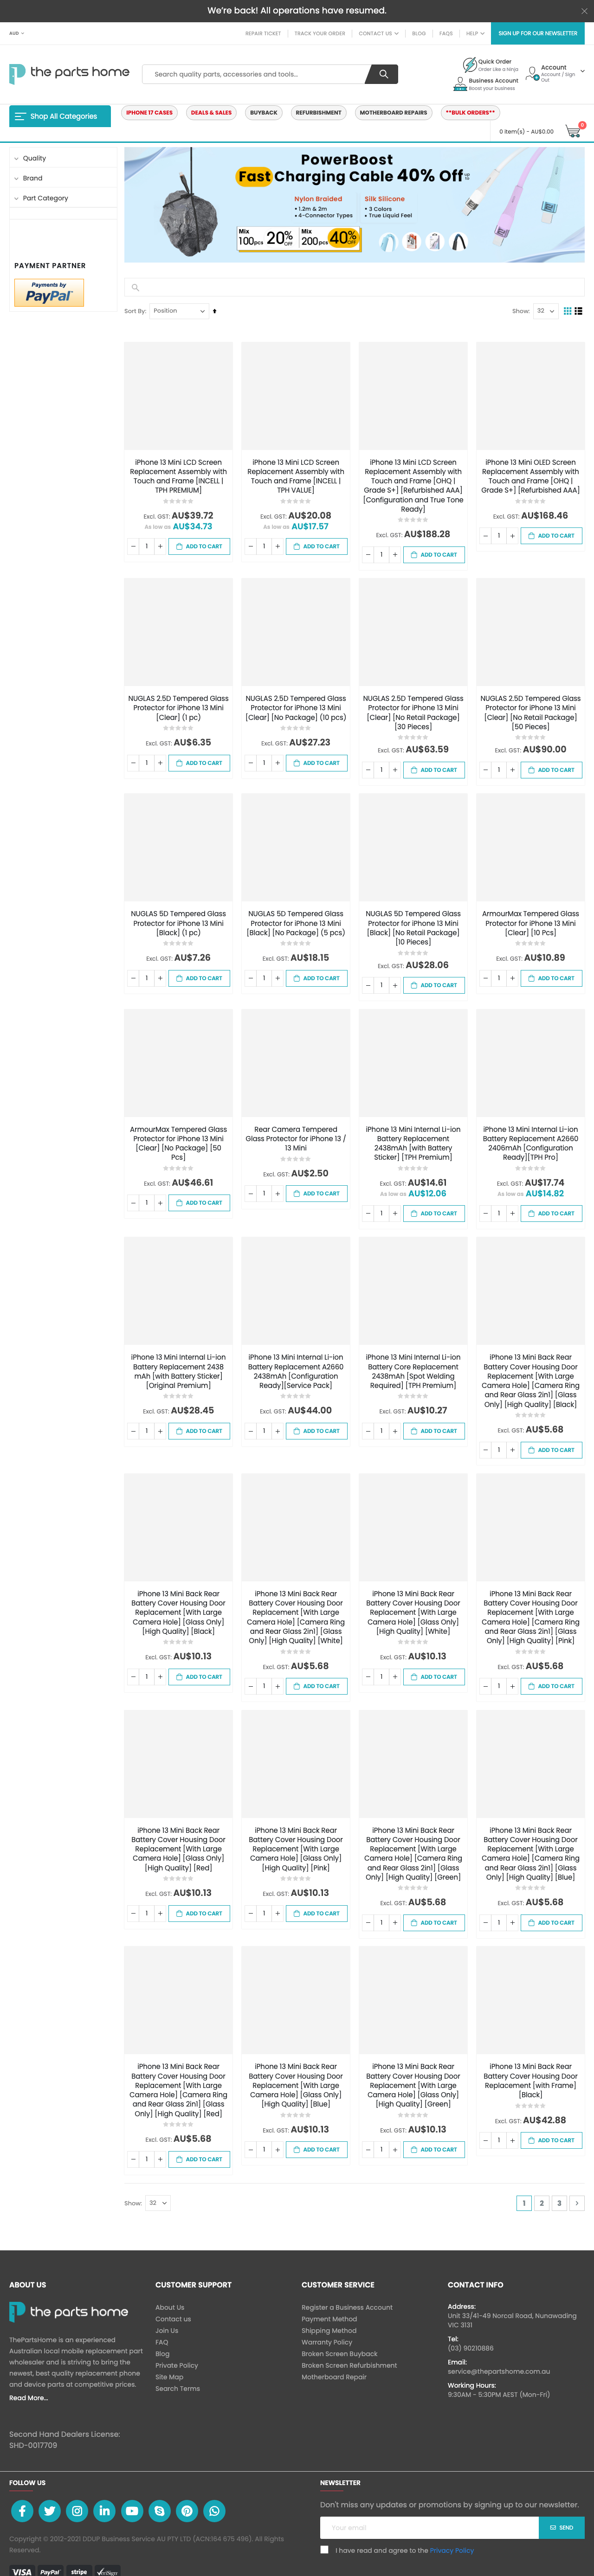
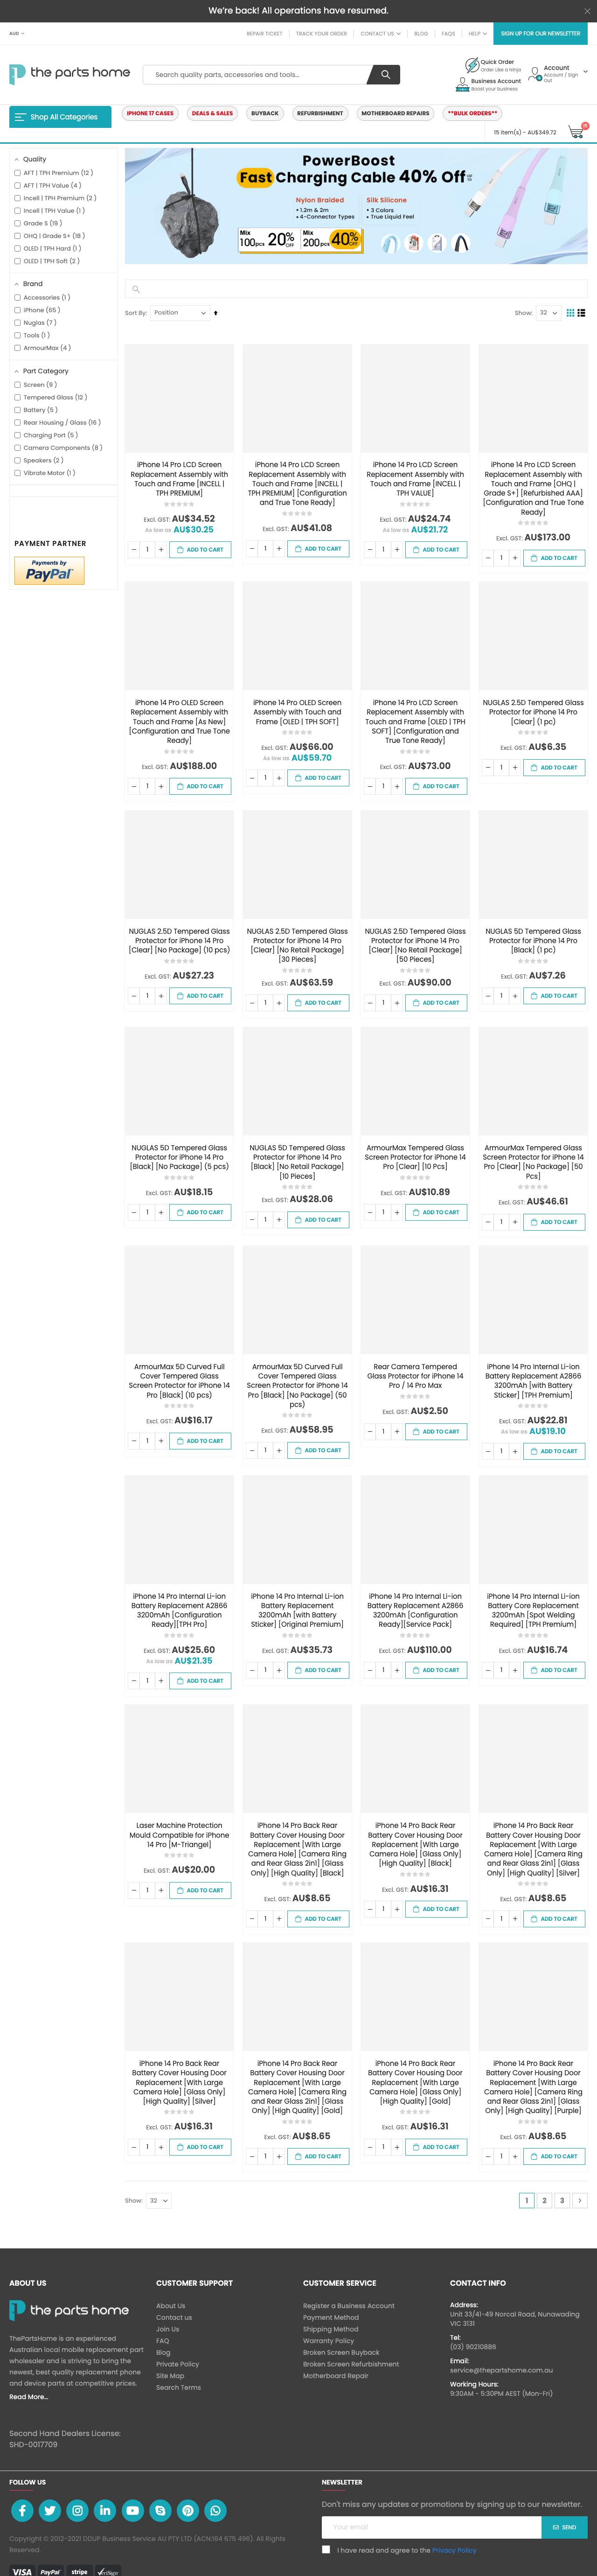
fix

diff --git a/scraper/main.py b/scraper/main.py
@@ -9,7 +9,7 @@ import warnings
 import logging
 from datetime import datetime
 from dotenv import load_dotenv
-from scrapling.engines.toolbelt.custom import Response
+from bs4 import BeautifulSoup
 from playwright.sync_api import sync_playwright
 from supabase import create_client, Client
 
@@ -125,8 +125,8 @@ def scrape_tph_category(url: str, cookies=None):
                     except Exception as ae:
                         logging.warning(f"Auth check timed out or failed: {str(ae)}. Continuing anyway...")
 
-                logging.info(f"Waiting for .product-item on page {page_num}...")
-                page.wait_for_selector(".product-item", timeout=15000)
+                logging.info(f"Waiting for .product-item on page {page_num} (state=attached)...")
+                page.wait_for_selector(".product-item", state="attached", timeout=15000)
                 
                 logging.info("Scrolling to bottom to trigger lazy loading...")
                 page.evaluate("window.scrollTo(0, document.body.scrollHeight)")
@@ -135,25 +135,32 @@ def scrape_tph_category(url: str, cookies=None):
                 logging.info("Capturing page content...")
             except Exception as e:
                 logging.error(f"Timeout or Error during page preparation (page {page_num}): {str(e)}")
-                # 3. DOM Dump for Zero Items
+                # DOM Dump for debugging
                 if page_num == 1:
-                    html_path = os.path.join(debug_dir, "debug_html.txt")
-                    with open(html_path, "w", encoding="utf-8") as f:
-                        f.write(page.content())
-                    logging.info(f"DOM dump saved to {html_path}")
+                    try:
+                        html_path = os.path.join(debug_dir, "debug_html.txt")
+                        with open(html_path, "w", encoding="utf-8") as f:
+                            f.write(page.content())
+                        logging.info(f"DOM dump saved to {html_path}")
+                    except: pass
                 break
                 
             content = page.content()
-            logging.info("Content captured. Parsing with Scrapling...")
-            response = Response(url=paginated_url, text=content, body=content.encode('utf-8'), status=200)
+            logging.info(f"Content captured ({len(content)} chars). Parsing with BeautifulSoup...")
             
-            # Updated Selectors based on debug_html.txt analysis
-            item_nodes = response.css("li.product-item")
+            try:
+                soup = BeautifulSoup(content, "html.parser")
+            except Exception as e:
+                logging.error(f"BeautifulSoup parse error: {str(e)}")
+                break
+            
+            # Find all product items
+            item_nodes = soup.select("li.product-item")
             
             if not item_nodes:
                 logging.warning(f"No item nodes (li.product-item) found on page {page_num}.")
-                # Fallback check for any item info
-                item_nodes = response.css(".product-item-info")
+                # Fallback
+                item_nodes = soup.select(".product-item-info")
                 if not item_nodes:
                     logging.error(f"ABORTING: No items found on page {page_num} after all waits.")
                     break
@@ -163,63 +170,76 @@ def scrape_tph_category(url: str, cookies=None):
             page_items_count = 0
             for idx, item in enumerate(item_nodes):
                 try:
-                    # 1. Improved Title & Link Extraction
-                    link_node = item.css_first("a.product-item-link")
+                    # 1. Title & Link Extraction
+                    link_node = item.select_one("a.product-item-link")
                     if not link_node:
-                        link_node = item.css_first(".product-item-name a")
+                        link_node = item.select_one(".product-item-name a")
                         
-                    raw_url = link_node.attrib.get("href", "") if link_node else ""
-                    raw_title = link_node.text.strip() if link_node else ""
+                    raw_url = link_node.get("href", "") if link_node else ""
+                    raw_title = link_node.get_text(strip=True) if link_node else ""
                     
                     if not raw_title or not raw_url:
                         logging.warning(f"  Item {idx}: Skipped — missing title or URL")
                         continue
 
-                    # 2. Robust Price Extraction (Prioritize Excl. GST)
+                    # 2. Price Extraction (Prioritize Excl. GST)
                     price_float = 0.0
                     price_source = "none"
                     
-                    # Try data attributes first (most reliable)
-                    price_wrapper = item.css_first(".price-excluding-tax") or item.css_first("[data-price-type='basePrice']")
-                    if price_wrapper:
-                        price_source = "excl-tax"
+                    # Try excl-tax / basePrice first
+                    price_el = item.select_one(".price-excluding-tax [data-price-amount]")
+                    if price_el:
+                        price_source = "excl-tax/attr"
                     else:
-                        price_wrapper = item.css_first(".price-including-tax") or item.css_first("[data-price-type='finalPrice']")
-                        if price_wrapper:
-                            price_source = "incl-tax"
+                        price_el = item.select_one("[data-price-type='basePrice']")
+                        if price_el:
+                            price_source = "basePrice/attr"
+                        else:
+                            # Fall back to incl-tax / finalPrice
+                            price_el = item.select_one(".price-including-tax [data-price-amount]")
+                            if price_el:
+                                price_source = "incl-tax/attr"
+                            else:
+                                price_el = item.select_one("[data-price-type='finalPrice']")
+                                if price_el:
+                                    price_source = "finalPrice/attr"
                     
-                    if price_wrapper:
-                        # Check data-price-amount attribute
-                        amount_node = price_wrapper.css_first("[data-price-amount]") or price_wrapper
-                        amount_attr = amount_node.attrib.get("data-price-amount")
+                    if price_el:
+                        amount_attr = price_el.get("data-price-amount")
                         if amount_attr:
                             try:
-                                # Aggressive sanitize: strip everything except digits and decimal
                                 sanitized = re.sub(r'[^\d.]', '', str(amount_attr))
                                 if sanitized:
                                     price_float = float(sanitized)
-                                    price_source += "/attr"
                             except Exception as pe:
                                 logging.warning(f"  Item {idx}: data-price-amount parse error: {pe} (raw='{amount_attr}')")
                         
-                        # Fallback to text parsing if amount_attr failed or was 0
+                        # Fallback to text parsing
                         if price_float == 0.0:
-                            price_text_node = price_wrapper.css_first(".price")
-                            if not price_text_node:
-                                price_text_node = price_wrapper
+                            price_text_el = price_el.select_one(".price") or price_el
                             try:
-                                raw_price_text = price_text_node.text.strip()
-                                # Aggressive sanitize: strip ALL non-numeric except decimal
+                                raw_price_text = price_text_el.get_text(strip=True)
                                 sanitized = re.sub(r'[^\d.]', '', raw_price_text)
                                 if sanitized:
                                     price_float = float(sanitized)
                                     price_source += "/text"
                             except Exception as pe:
-                                logging.warning(f"  Item {idx}: text price parse error: {pe} (raw='{raw_price_text}')")
+                                logging.warning(f"  Item {idx}: text price parse error: {pe}")
+                    
+                    # If still no price, try any .price element in the item
+                    if price_float == 0.0:
+                        any_price = item.select_one(".price")
+                        if any_price:
+                            try:
+                                sanitized = re.sub(r'[^\d.]', '', any_price.get_text(strip=True))
+                                if sanitized:
+                                    price_float = float(sanitized)
+                                    price_source = "fallback/.price/text"
+                            except: pass
                     
                     # 3. Stock Status
                     stock_status = "In Stock"
-                    stock_node = item.css_first(".stock.unavailable")
+                    stock_node = item.select_one(".stock.unavailable")
                     if stock_node or price_float == 0.0:
                         stock_status = "Out of Stock"
 
@@ -231,7 +251,7 @@ def scrape_tph_category(url: str, cookies=None):
                     })
                     page_items_count += 1
 
-                    # Debug: Log first 3 items per page for visibility
+                    # Debug: Log first 3 items per page
                     if page_items_count <= 3:
                         logging.info(f"  SAMPLE [{page_items_count}]: '{raw_title[:60]}...' | ${price_float:.2f} ({price_source}) | {stock_status}")
 